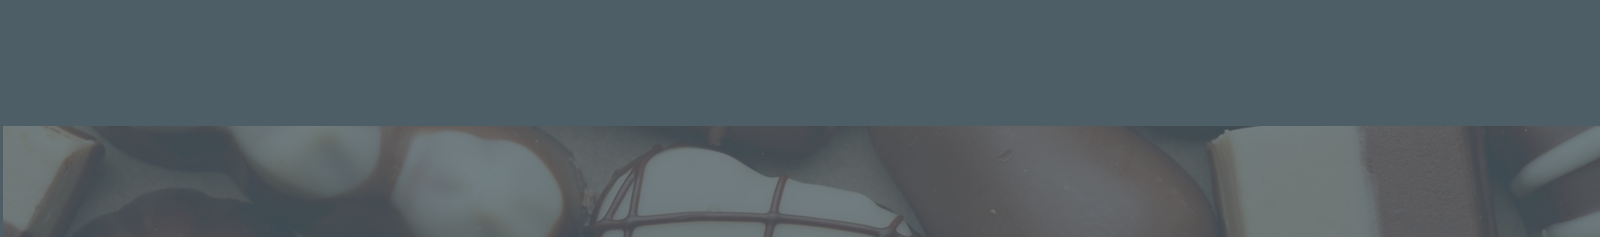
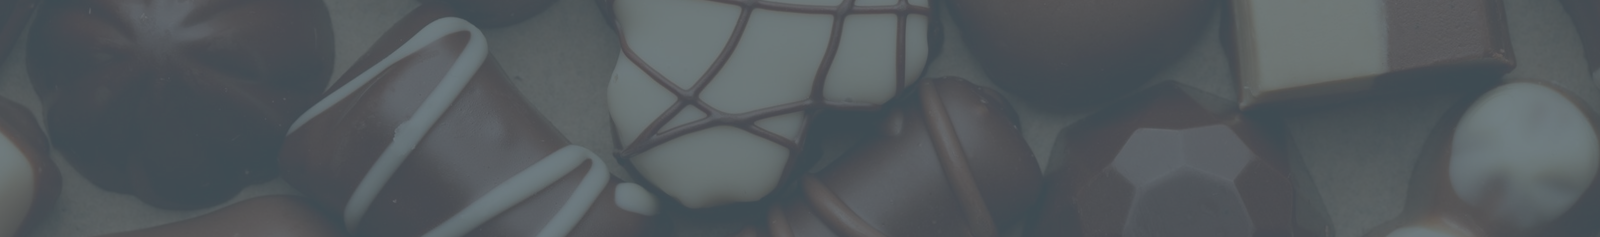
Suddya

diff --git a/css/styles.css b/css/styles.css
@@ -1506,11 +1506,18 @@ img {
         background-size: cover;
         background-color: #ffffff;
     }
+    .article-banner-box {
+        display: table;
+        width: 100%;
+        height: 237px;
+        padding: 25px 0 30px;
+
+    }
         .article-banner .banner-title {
-            margin: 0;
-            padding: 85px 0 90px;
+            display: table-cell;
             font: 600 52px 'proximanova-semibold';
             text-align: center;
+            vertical-align: middle;
             color: #ffffff;
         }
         .sidebar {
@@ -1599,39 +1606,42 @@ img {
                     }
             .sidebar  .cell-date {
                 font-size: 14px;
+                margin-bottom: 3px;
             }
-            .sidebar .enewslette-box {
+            .sidebar .newsletter-box {
                 display: table;
                 width: 100%;
                 padding-top: 5px;
                 margin-bottom: 15px;
             }
-            .sidebar .enewslette-box li {
+            .sidebar .newsletter-box li {
                 display: table-cell;
                 vertical-align: top;
             }
-            .enewslette-btn {
+            .newsletter-btn {
                 width: 130px;
                 padding-left: 10px;
             }
-            .enewslette .btn {
+            .newsletter .btn {
                 width: 100%;
                 padding-left: 10px;
                 padding-right: 10px;
                 background-color: #8b8f90;
                 opacity: 0.8;
             }
-            .enewslette .btn:hover {
+            .newsletter .btn:hover {
                 opacity: 1;
             }
-            .sidebar .enewslette-box .input-style {
+            .sidebar .newsletter-box .input-style {
                 padding: 8px 15px 8px;
             }
             .sidebar .calculator {
                 position: relative;
                 width: 100%;
-                margin-top: 15px;
+                margin-top: 25px;
+                padding: 20px 20px 20px 68px;
                 font-size: 16px;
+                text-align: left;
                 color: #ffffff;
             }
             .sidebar .calculator:before {
@@ -1644,8 +1654,9 @@ img {
             }
             .sidebar .calculator span {
                 display: inline-block;
-                margin-left: 50px;
-                font: 600 16px 'proximanova-semibold';
+                font: 400 16px 'proximanova-regular';
+                text-align: left;
+                opacity: 0.8;
             }
         .content-article {
             overflow: hidden;
@@ -1699,6 +1710,9 @@ img {
                 .content ol li:before {
                     content: counter(num) ') ';
                     counter-increment: num;
+                    display: inline-block;
+                    min-width: 14px;
+                    margin-right: 6px;
                     font: 600 18px 'proximanova-semibold';
                     color: #0097de;
                 }
@@ -1720,7 +1734,6 @@ img {
                 }
                 .content blockquote {
                     position: relative;
-                    max-width: 700px;
                     margin: 46px 0 0 0;
                     padding: 30px 40px 5px;
                     text-align: center;
@@ -1742,6 +1755,7 @@ img {
                     background-image: url(../img/content/quote.png);
                     background-repeat: no-repeat;
                     background-position: center;
+                    background-size: contain;
                     background-color: #ffffff;
                 }
                 .content blockquote p {
@@ -1755,15 +1769,21 @@ img {
                     -moz-border-radius: 4px;
                     border-radius: 4px;
                 }
-                .content .align-left{
+                .content img.alignleft{
                     float: left;
                     margin: 7px 20px 20px 0;
-                    max-width: 360px;
+                    max-width: 350px;
                 }
-                .content .align-right{
+                .content img.alignright{
                     float: right;
                     margin: 7px 0 20px 20px;
-                    max-width: 360px;
+                    max-width: 350px;
+                }
+                .content img.aligncenter{
+                    display: block;
+                    margin: 0 auto 40px;
+                    clear: both;
+                    width: 100%;
                 }
 /*----------------------------------------------------------------------------------*/
 /*-------------------------------------SIDEBAR--------------------------------------*/

diff --git a/standard-page-with-image.html b/standard-page-with-image.html
@@ -167,7 +167,7 @@
                             questionnaire.The team set out to investigate whether chocolate intake is associated with
                             insulin resistance - where the body's cells do not effectively respond to insulin, raising
                             the risk for type 2 diabetes and heart disease.</p>
-                        <a href="#" class="align-left"><img  src="img/content/choko.png" alt="example_pic" width="300" height="180"></a>
+                        <a href="#"><img  src="img/content/choko.png" alt="example_pic" class="alignleft" width="300" height="180"></a>
                         <h3>Lorem ipsum dolor sit amet (H3)</h3>
                         <p>Dark chocolate has the highest cocoa content, which means it has the highest levels of
                             antioxidants - specifically, flavonoids - which are molecules that can prevent some forms
@@ -180,7 +180,7 @@
                     </div>
                 </article>
 
-                <aside class="sidebar radius">
+                <aside class="sidebar radius" id="sidebar">
                     <div class="widget related-article">
                         <h3 class="title-sidebar">Trending posts</h3>
                         <ul class="trand-list">
@@ -241,18 +241,18 @@
                         </ul>
                     </div>
 
-                    <div class="enewslette">
-                        <h3 class="title-sidebar">Get our enewsletter</h3>
+                    <div class="newsletter">
+                        <h3 class="title-sidebar">Get our newsletter</h3>
                         <span class="cell-date">Stay up to date on events & the latest in bone health</span>
                         <form>
-                            <ul class="enewslette-box">
+                            <ul class="newsletter-box">
                                 <li><input type="email" class="input-style" size="100" placeholder="Email"></li>
-                                <li class="enewslette-btn"><input type="submit" class="btn" value="Subscribe"></li>
+                                <li class="newsletter-btn"><input type="submit" class="btn" value="Subscribe"></li>
                             </ul>
                         </form>
                     </div>
                     <a href="#" class="btn calculator">
-                        <span>10-Year Fracture Risk Calculator</span>
+                        10-Year Fracture Risk Calculator
                         <span>See if you areat risk</span>
                     </a>
                 </aside>

diff --git a/js/mainJs.js b/js/mainJs.js
@@ -60,6 +60,10 @@ $(document).ready(function() {
         $(this).toggleClass('active').find('.accordion-box-content').slideToggle(500);
     });
 
+    // for pages with sidebar
+    var sidebar = $('#sidebar');
+    $(sidebar).parent().css({'min-height': sidebar.height() + 24});
+
     // for Owl Carousel sliders
     $('.volunteers-slider').owlCarousel({
         items:1,
